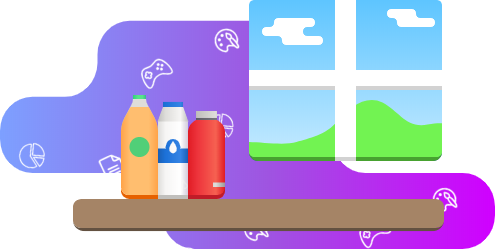
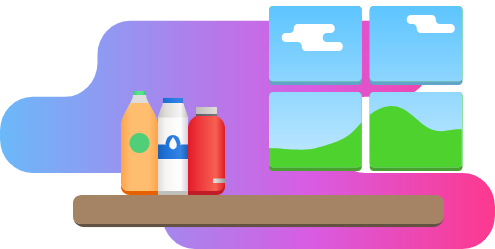
make onboard illustration switch on dark

diff --git a/src/dialogs/onboard.py b/src/dialogs/onboard.py
@@ -26,19 +26,20 @@ from bottles.utils.threading import RunAsync  # pyright: reportMissingImports=fa
 class OnboardDialog(Adw.Window):
     __gtype_name__ = 'OnboardDialog'
     __installing = False
+    __settings = Gtk.Settings.get_default()
 
     # region Widgets
     carousel = Gtk.Template.Child()
-    btn_quit = Gtk.Template.Child()
+    btn_close = Gtk.Template.Child()
     btn_back = Gtk.Template.Child()
     btn_next = Gtk.Template.Child()
     btn_install = Gtk.Template.Child()
-    btn_close = Gtk.Template.Child()
     progressbar = Gtk.Template.Child()
     page_welcome = Gtk.Template.Child()
     page_bottles = Gtk.Template.Child()
     page_download = Gtk.Template.Child()
     page_finish = Gtk.Template.Child()
+    img_welcome = Gtk.Template.Child()
     # endregion
 
     carousel_pages = [
@@ -46,6 +47,10 @@ class OnboardDialog(Adw.Window):
         "bottles",
         "download",
         "finish"
+    ]
+    images = [
+        "/com/usebottles/bottles/images/images/bottles-welcome.svg",
+        "/com/usebottles/bottles/images/images/bottles-welcome-night.svg",
     ]
 
     def __init__(self, window, **kwargs):
@@ -57,14 +62,21 @@ class OnboardDialog(Adw.Window):
         self.manager = window.manager
 
         # connect signals
+        self.connect("destroy", self.__quit)
         self.carousel.connect('page-changed', self.__page_changed)
         self.btn_close.connect("clicked", self.__close_window)
-        self.btn_quit.connect("clicked", self.__quit)
         self.btn_back.connect("clicked", self.__previous_page)
         self.btn_next.connect("clicked", self.__next_page)
         self.btn_install.connect("clicked", self.__install_runner)
+        self.__settings.connect("notify::gtk-application-prefer-dark-theme", self.__theme_changed)
+
+        if self.__settings.get_property("gtk-application-prefer-dark-theme"):
+            self.img_welcome.set_from_resource(self.images[1])
 
         self.__page_changed()
+
+    def __theme_changed(self, settings, key):
+        self.img_welcome.set_from_resource(self.images[settings.get_property("gtk-application-prefer-dark-theme")])
 
     def __get_page(self, index):
         return self.carousel_pages[index]
@@ -80,11 +92,9 @@ class OnboardDialog(Adw.Window):
         if page == "finish":
             self.btn_back.set_visible(False)
             self.btn_next.set_visible(False)
-            self.btn_quit.set_visible(False)
         elif page == "download":
             self.btn_back.set_visible(True)
             self.btn_next.set_visible(False)
-            self.btn_quit.set_visible(True)
             self.btn_install.set_visible(True)
         elif page == "welcome":
             self.btn_back.set_visible(False)
@@ -104,12 +114,12 @@ class OnboardDialog(Adw.Window):
         self.__installing = True
         self.btn_back.set_visible(False)
         self.btn_next.set_visible(False)
-        self.btn_quit.set_visible(False)
         self.btn_install.set_visible(False)
         self.progressbar.set_visible(True)
         self.carousel.set_allow_long_swipes(False)
         self.carousel.set_allow_mouse_drag(False)
         self.carousel.set_allow_scroll_wheel(False)
+        self.set_closalable(False)
 
         RunAsync(self.pulse)
         RunAsync(
